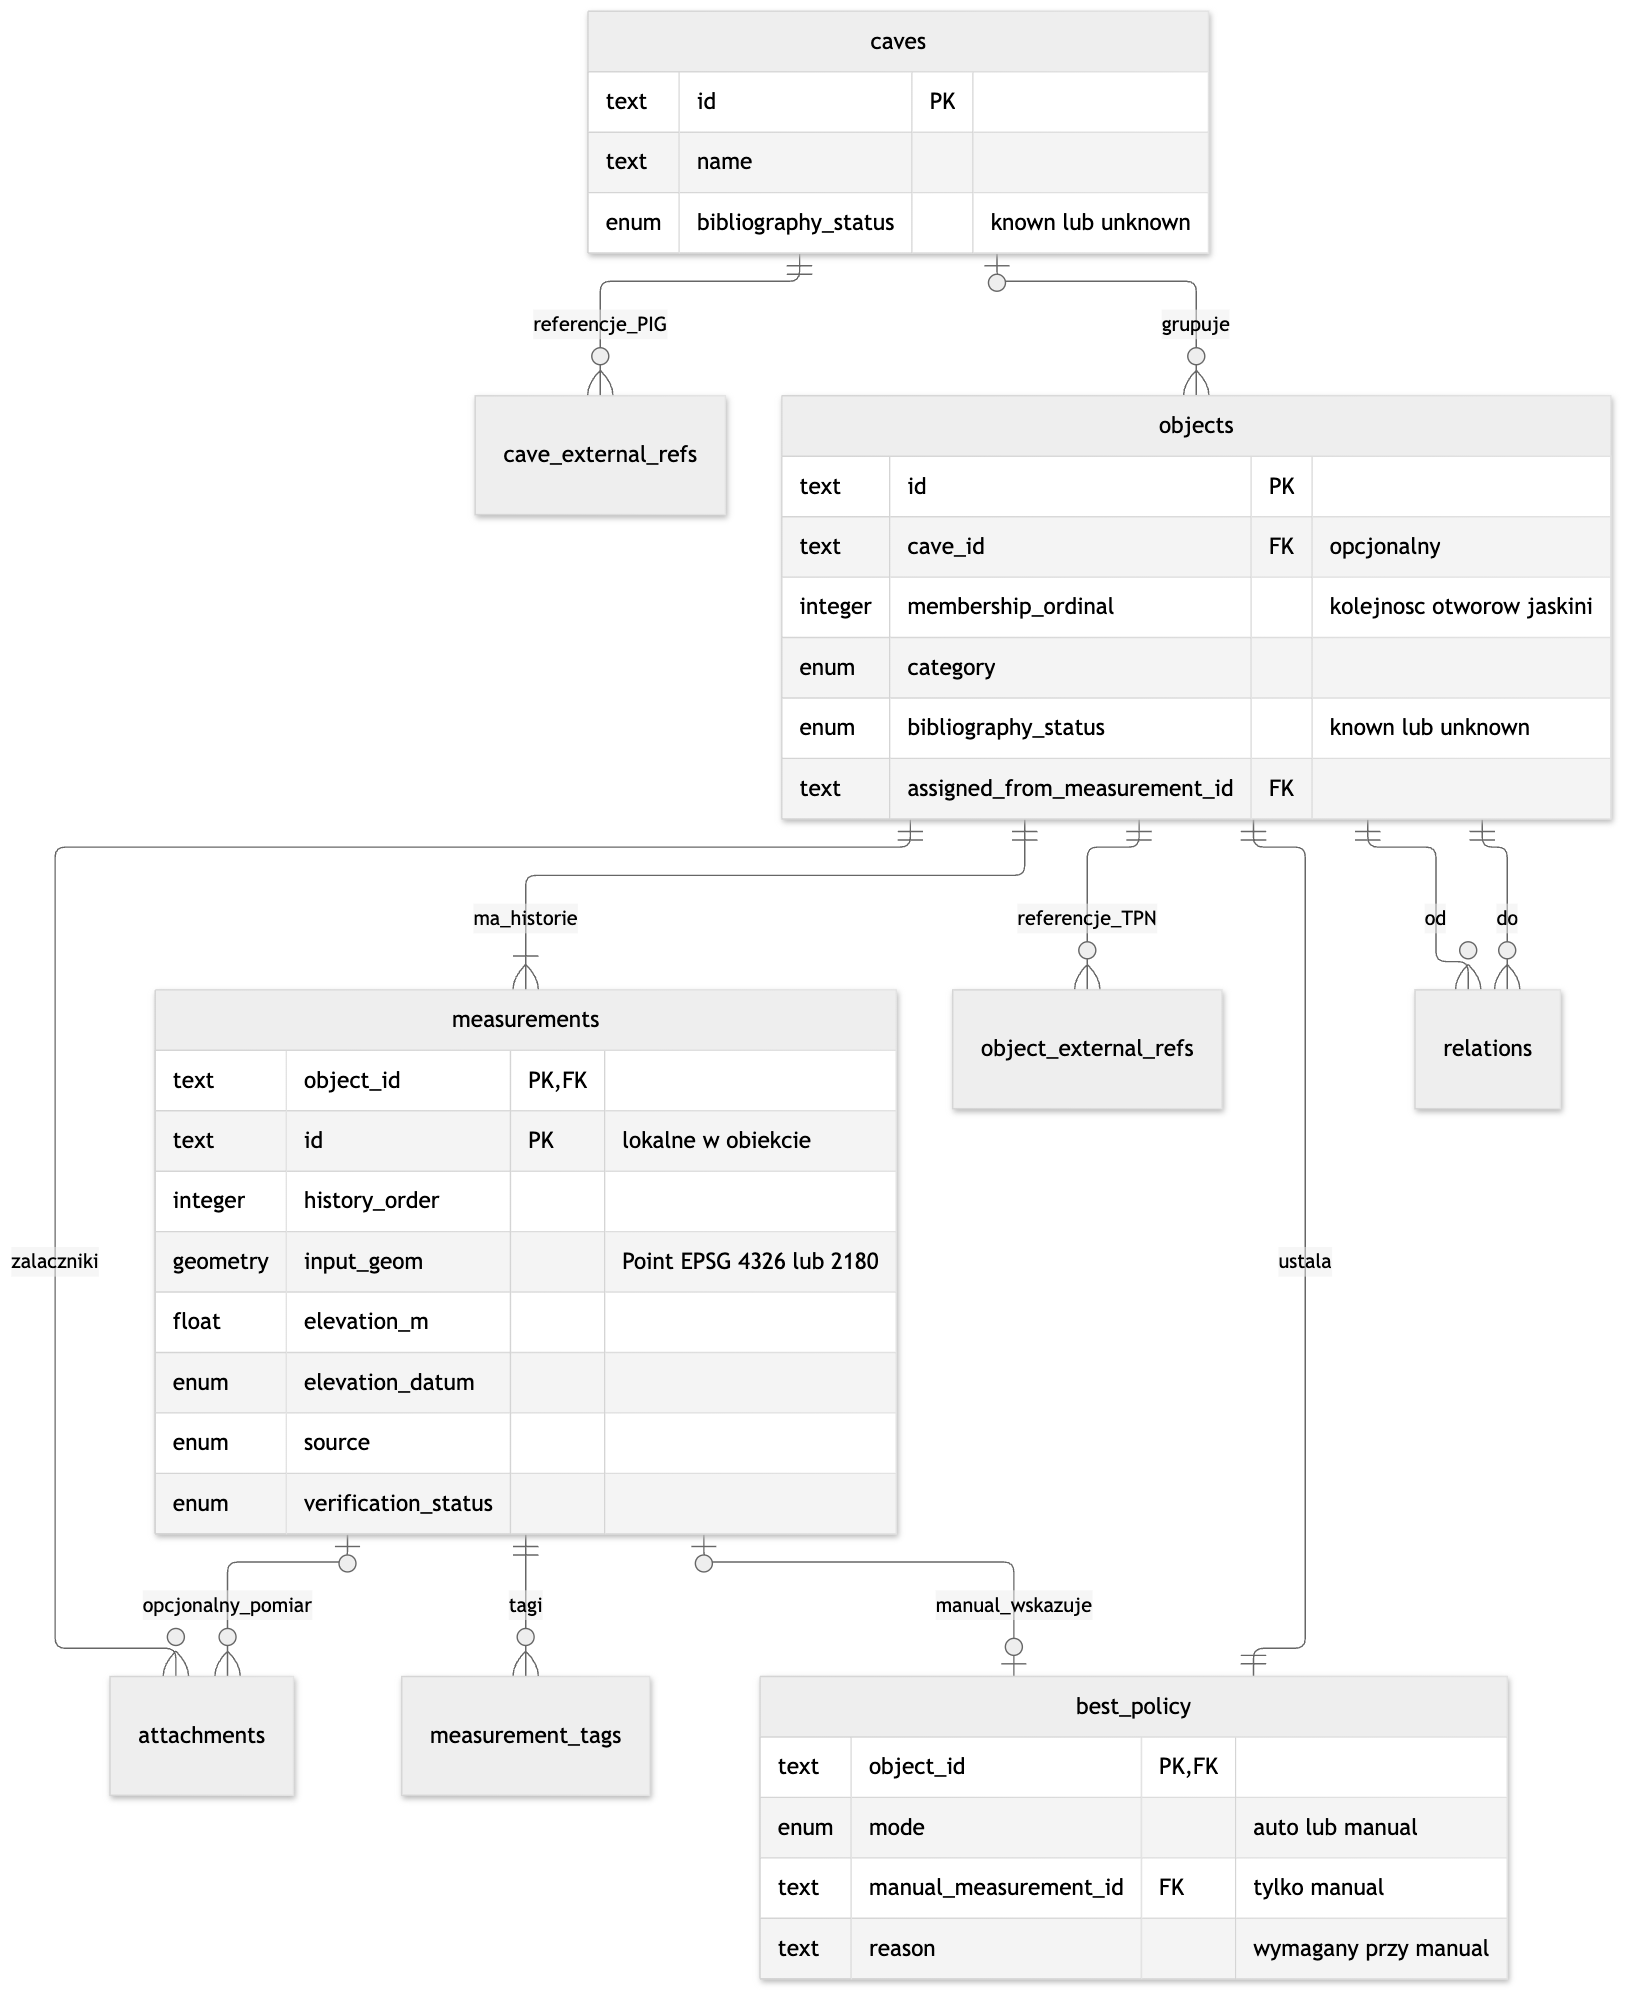
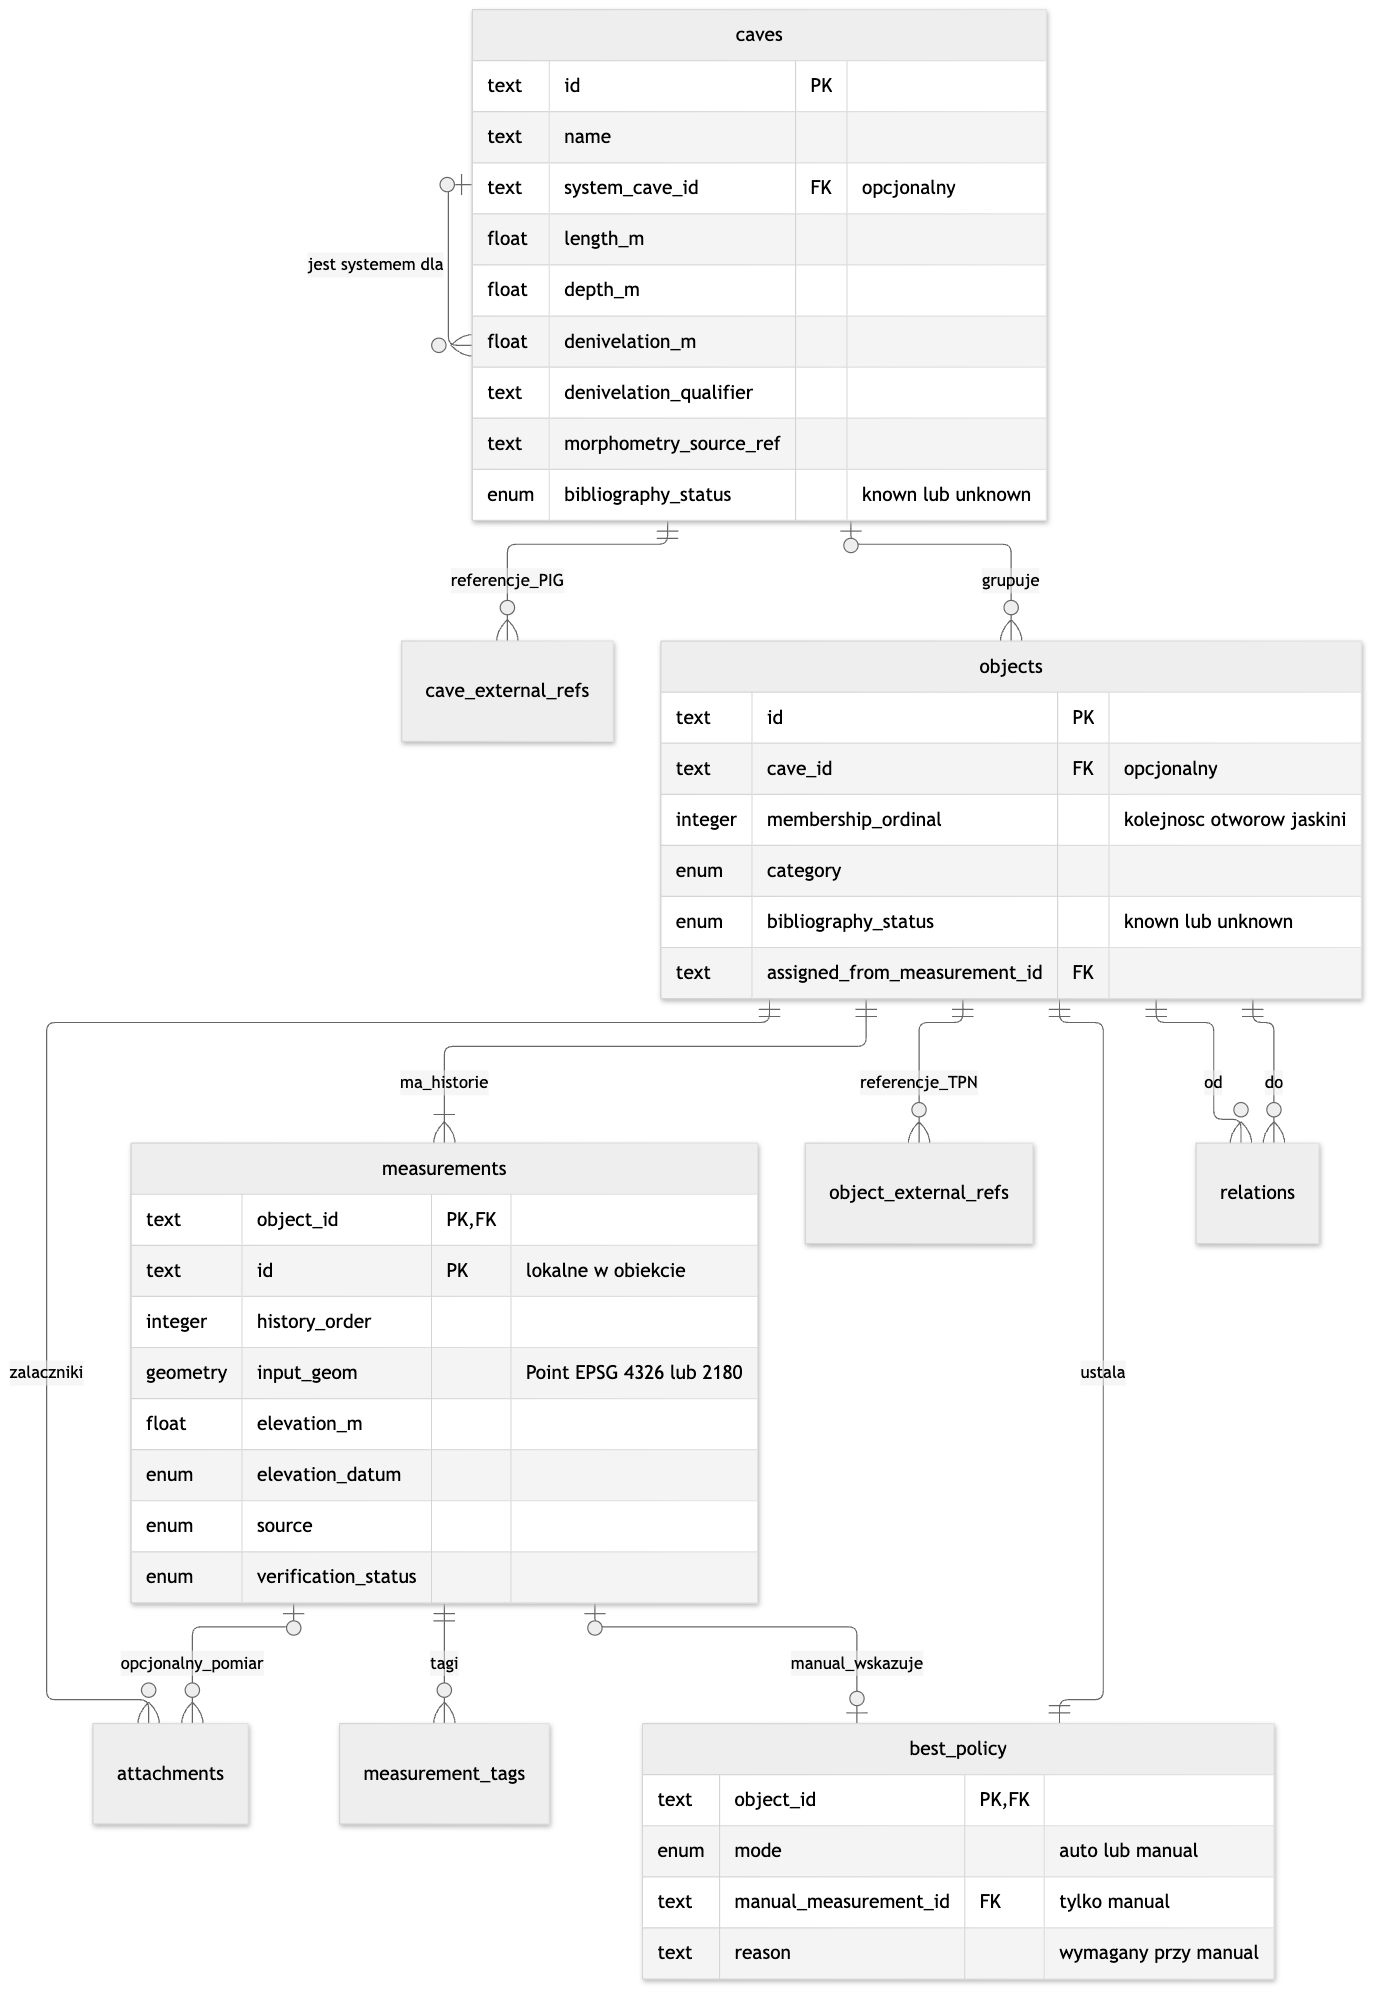
docs: uzupełnij diagram systemów i limit DBF

diff --git a/docs/architecture/schema.md b/docs/architecture/schema.md
@@ -11,6 +11,7 @@ metadane opisuje DDL. Minimum jednego pomiaru i jednej polityki Best wymusza
 
 ```mermaid
 erDiagram
+    caves o|--o{ caves : "jest systemem dla"
     caves o|--o{ objects : grupuje
     objects ||--|{ measurements : ma_historie
     objects ||--|| best_policy : ustala
@@ -25,6 +26,12 @@ erDiagram
     caves {
         text id PK
         text name
+        text system_cave_id FK "opcjonalny"
+        float length_m
+        float depth_m
+        float denivelation_m
+        text denivelation_qualifier
+        text morphometry_source_ref
         enum bibliography_status "known lub unknown"
     }
     objects {
@@ -56,6 +63,8 @@ erDiagram
 FK do pomiaru zawiera zawsze ID obiektu. Jedna jaskinia może nie mieć
 rozpoznanych otworów; obiekt może nie być jeszcze przypisany do jaskini.
 Lista obiektów jaskini jest wyliczana z FK, bez drugiego ręcznego zapisu.
+Część może wskazywać jeden system przez `caves.system_cave_id`.
+System wskazany przez część sam nie może wskazywać systemu.
 
 ## Publikacje i przywołania
 

diff --git a/docs/operations.md b/docs/operations.md
@@ -425,8 +425,9 @@ W `data/caves/{CAVE_ID}.yml` zapisz dostępne wartości `length_m`, `depth_m`
 i `denivelation_m` w metrach oraz `morphometry_source_ref`. Gdy źródła są
 różne, podaj nazwy pól przed każdym odsyłaczem. Przykład to
 `length_m, denivelation_m = KKTJ 2026-07, PDF 04, s. 2, lp. 1, Dolina Strążyska | depth_m = PIG:1204, stan 2010`.
-Eksport zachowuje cały odsyłacz. Dla źródłowego przybliżenia deniwelacji
-dodaj `denivelation_qualifier: approximate`.
+Pełny odsyłacz zachowują CSV, GeoJSON, GeoPackage, Excel i dump PostgreSQL.
+Pola DBF mają limit 254 bajtów UTF-8, a opis GPX podlega regułom XML 1.0.
+Dla źródłowego przybliżenia deniwelacji dodaj `denivelation_qualifier: approximate`.
 Puste pola oznaczają brak wartości. Głębokość to nieujemna wielkość podana
 przez źródło. Wysokości otworów ani przewyższenia nie zastępują głębokości.
 

diff --git a/docs/release_artifacts.md b/docs/release_artifacts.md
@@ -130,7 +130,10 @@ CSV, GeoJSON oraz warstwy `best` i `measurements` GeoPackage podają
 `cave_length_m`, `cave_depth_m` i `cave_denivelation_m` w metrach oraz
 `cave_denivelation_qualifier` i `cave_morphometry_source_ref`. Shapefile
 używa pól `cave_len_m`, `cave_dep_m`, `cave_den_m` (trzy miejsca po
-przecinku), `cave_den_q` i `cave_m_ref`. Puste wartości liczbowe są
+przecinku), `cave_den_q` i `cave_m_ref`. DBF skraca odsyłacze
+`cave_m_ref` i `sys_m_ref` do 254 bajtów UTF-8 na granicy znaku.
+Pełny odsyłacz jest dostępny w CSV, GeoJSON, GeoPackage, Excelu
+i dumpie PostgreSQL. Puste wartości liczbowe są
 nieznane. GPX pokazuje znane wymiary i odniesienie do źródła w opisie
 punktu oraz oznacza przybliżoną deniwelację przez `~`.
 
